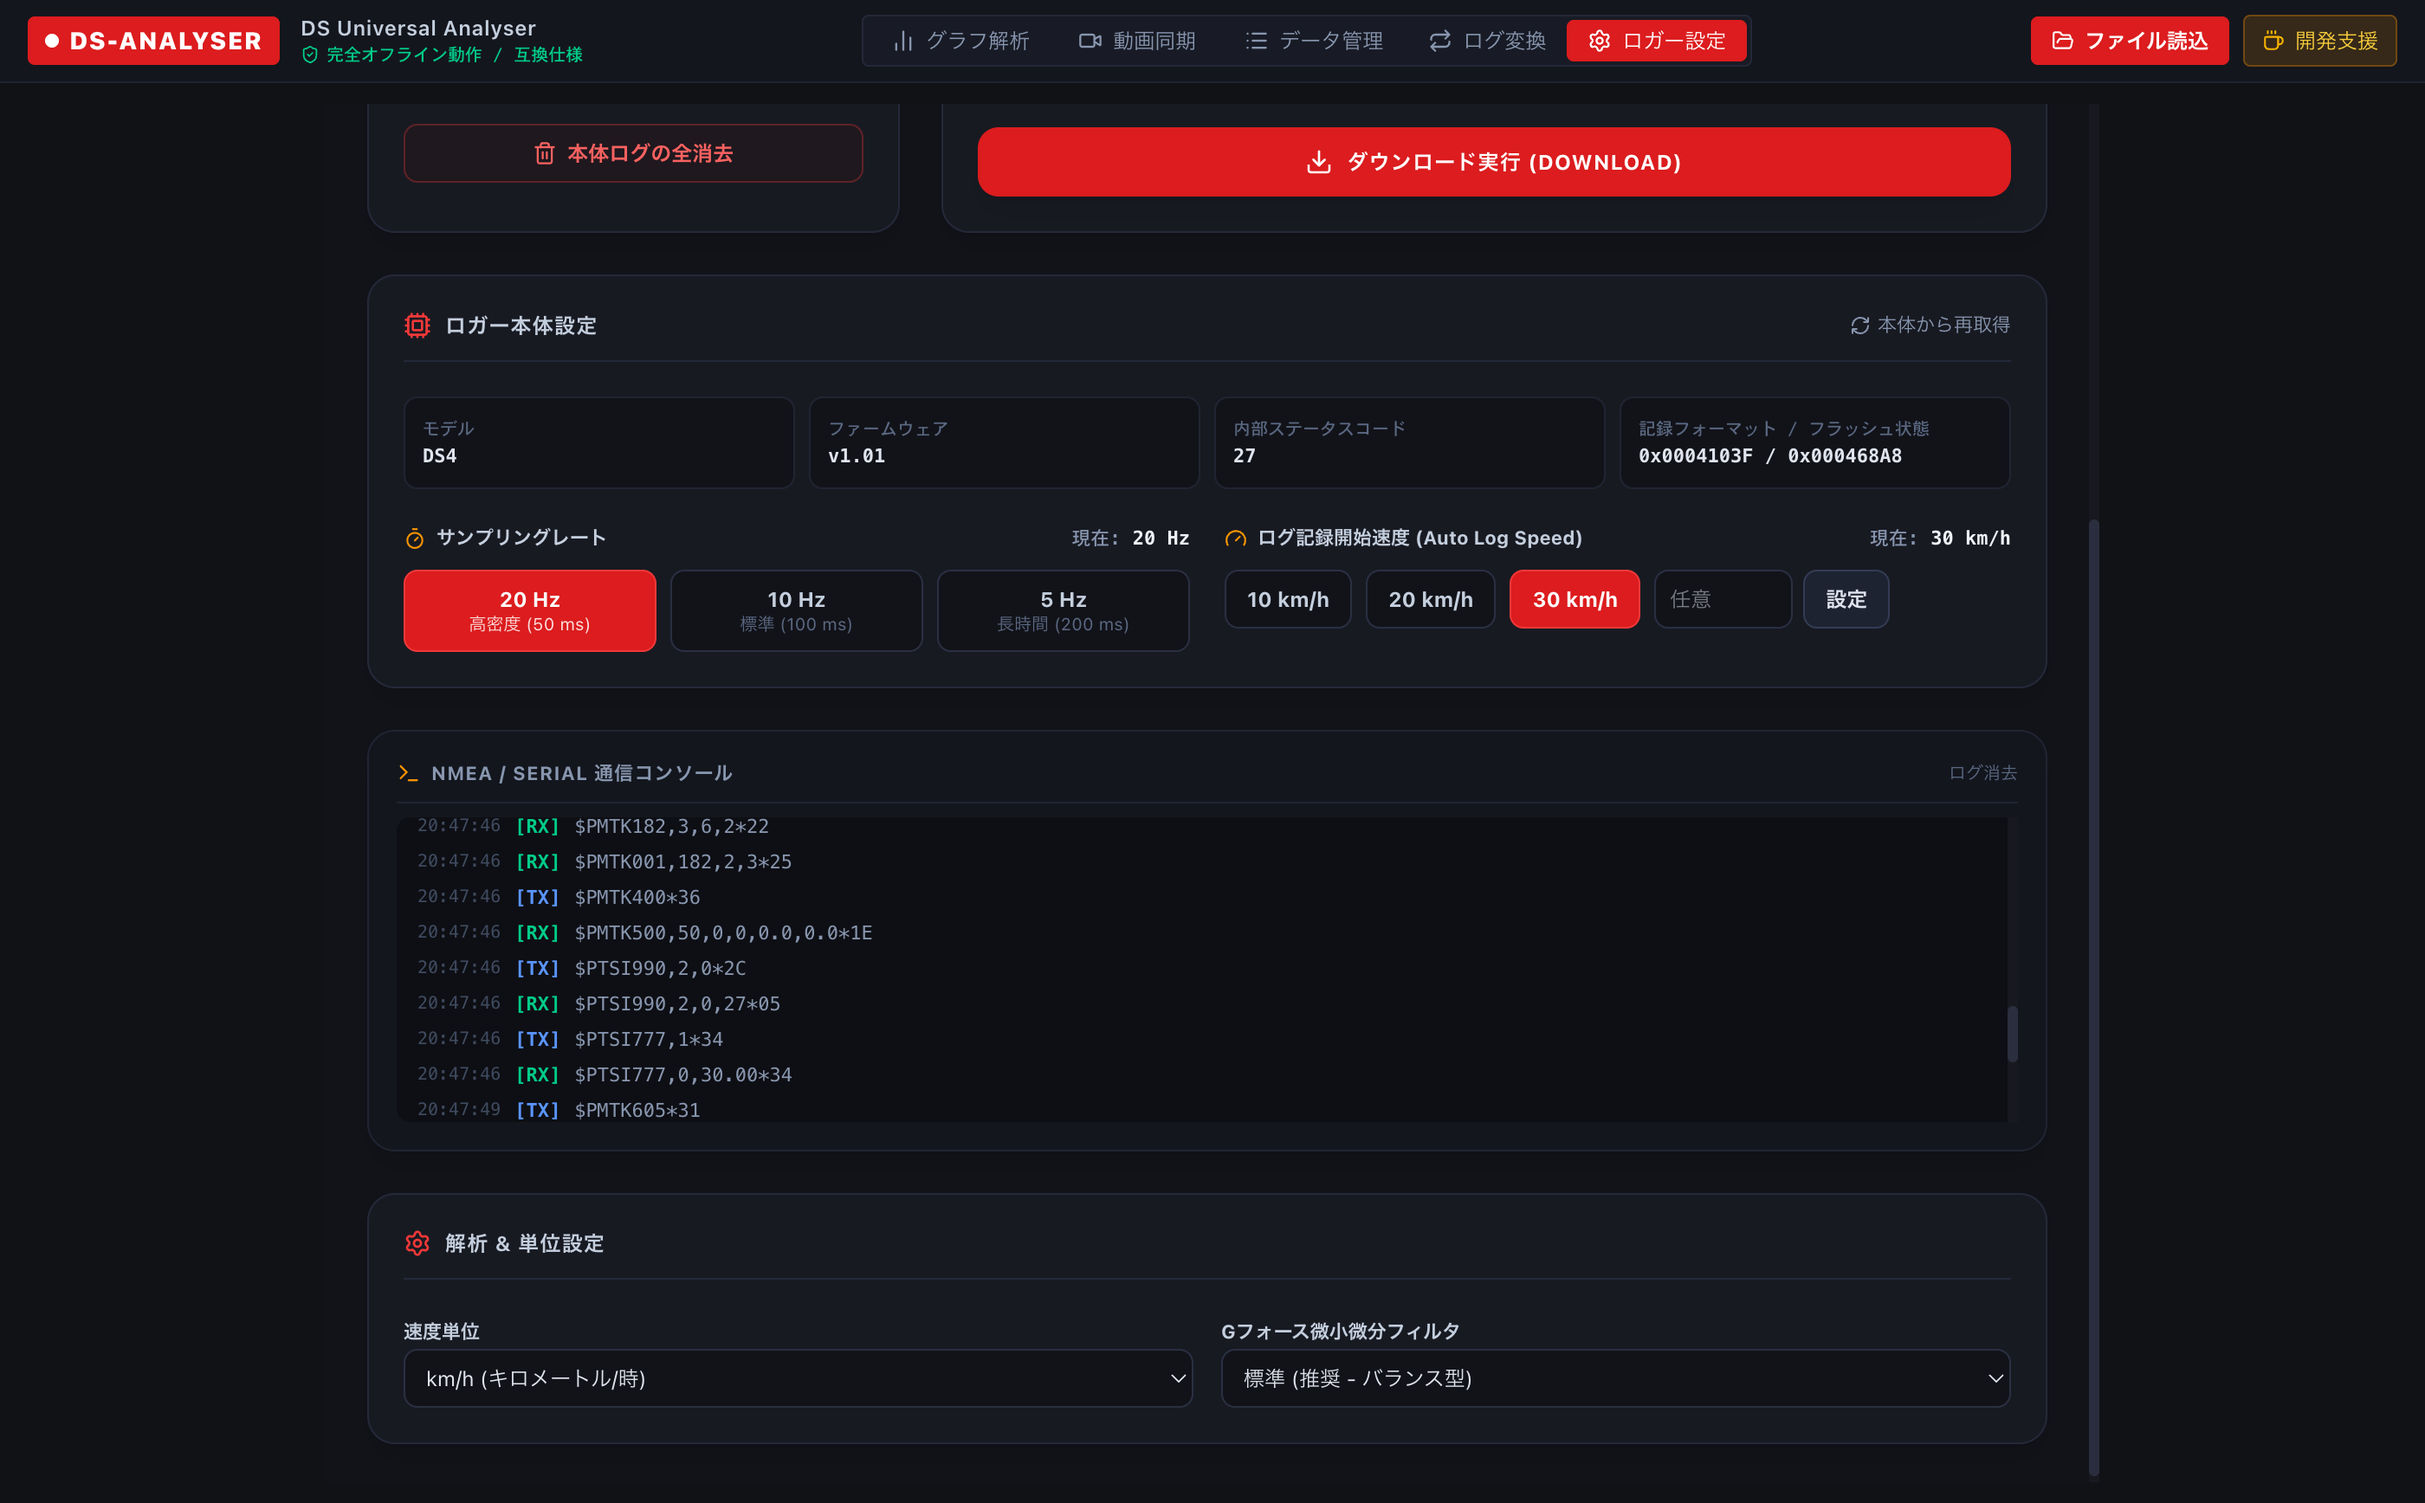
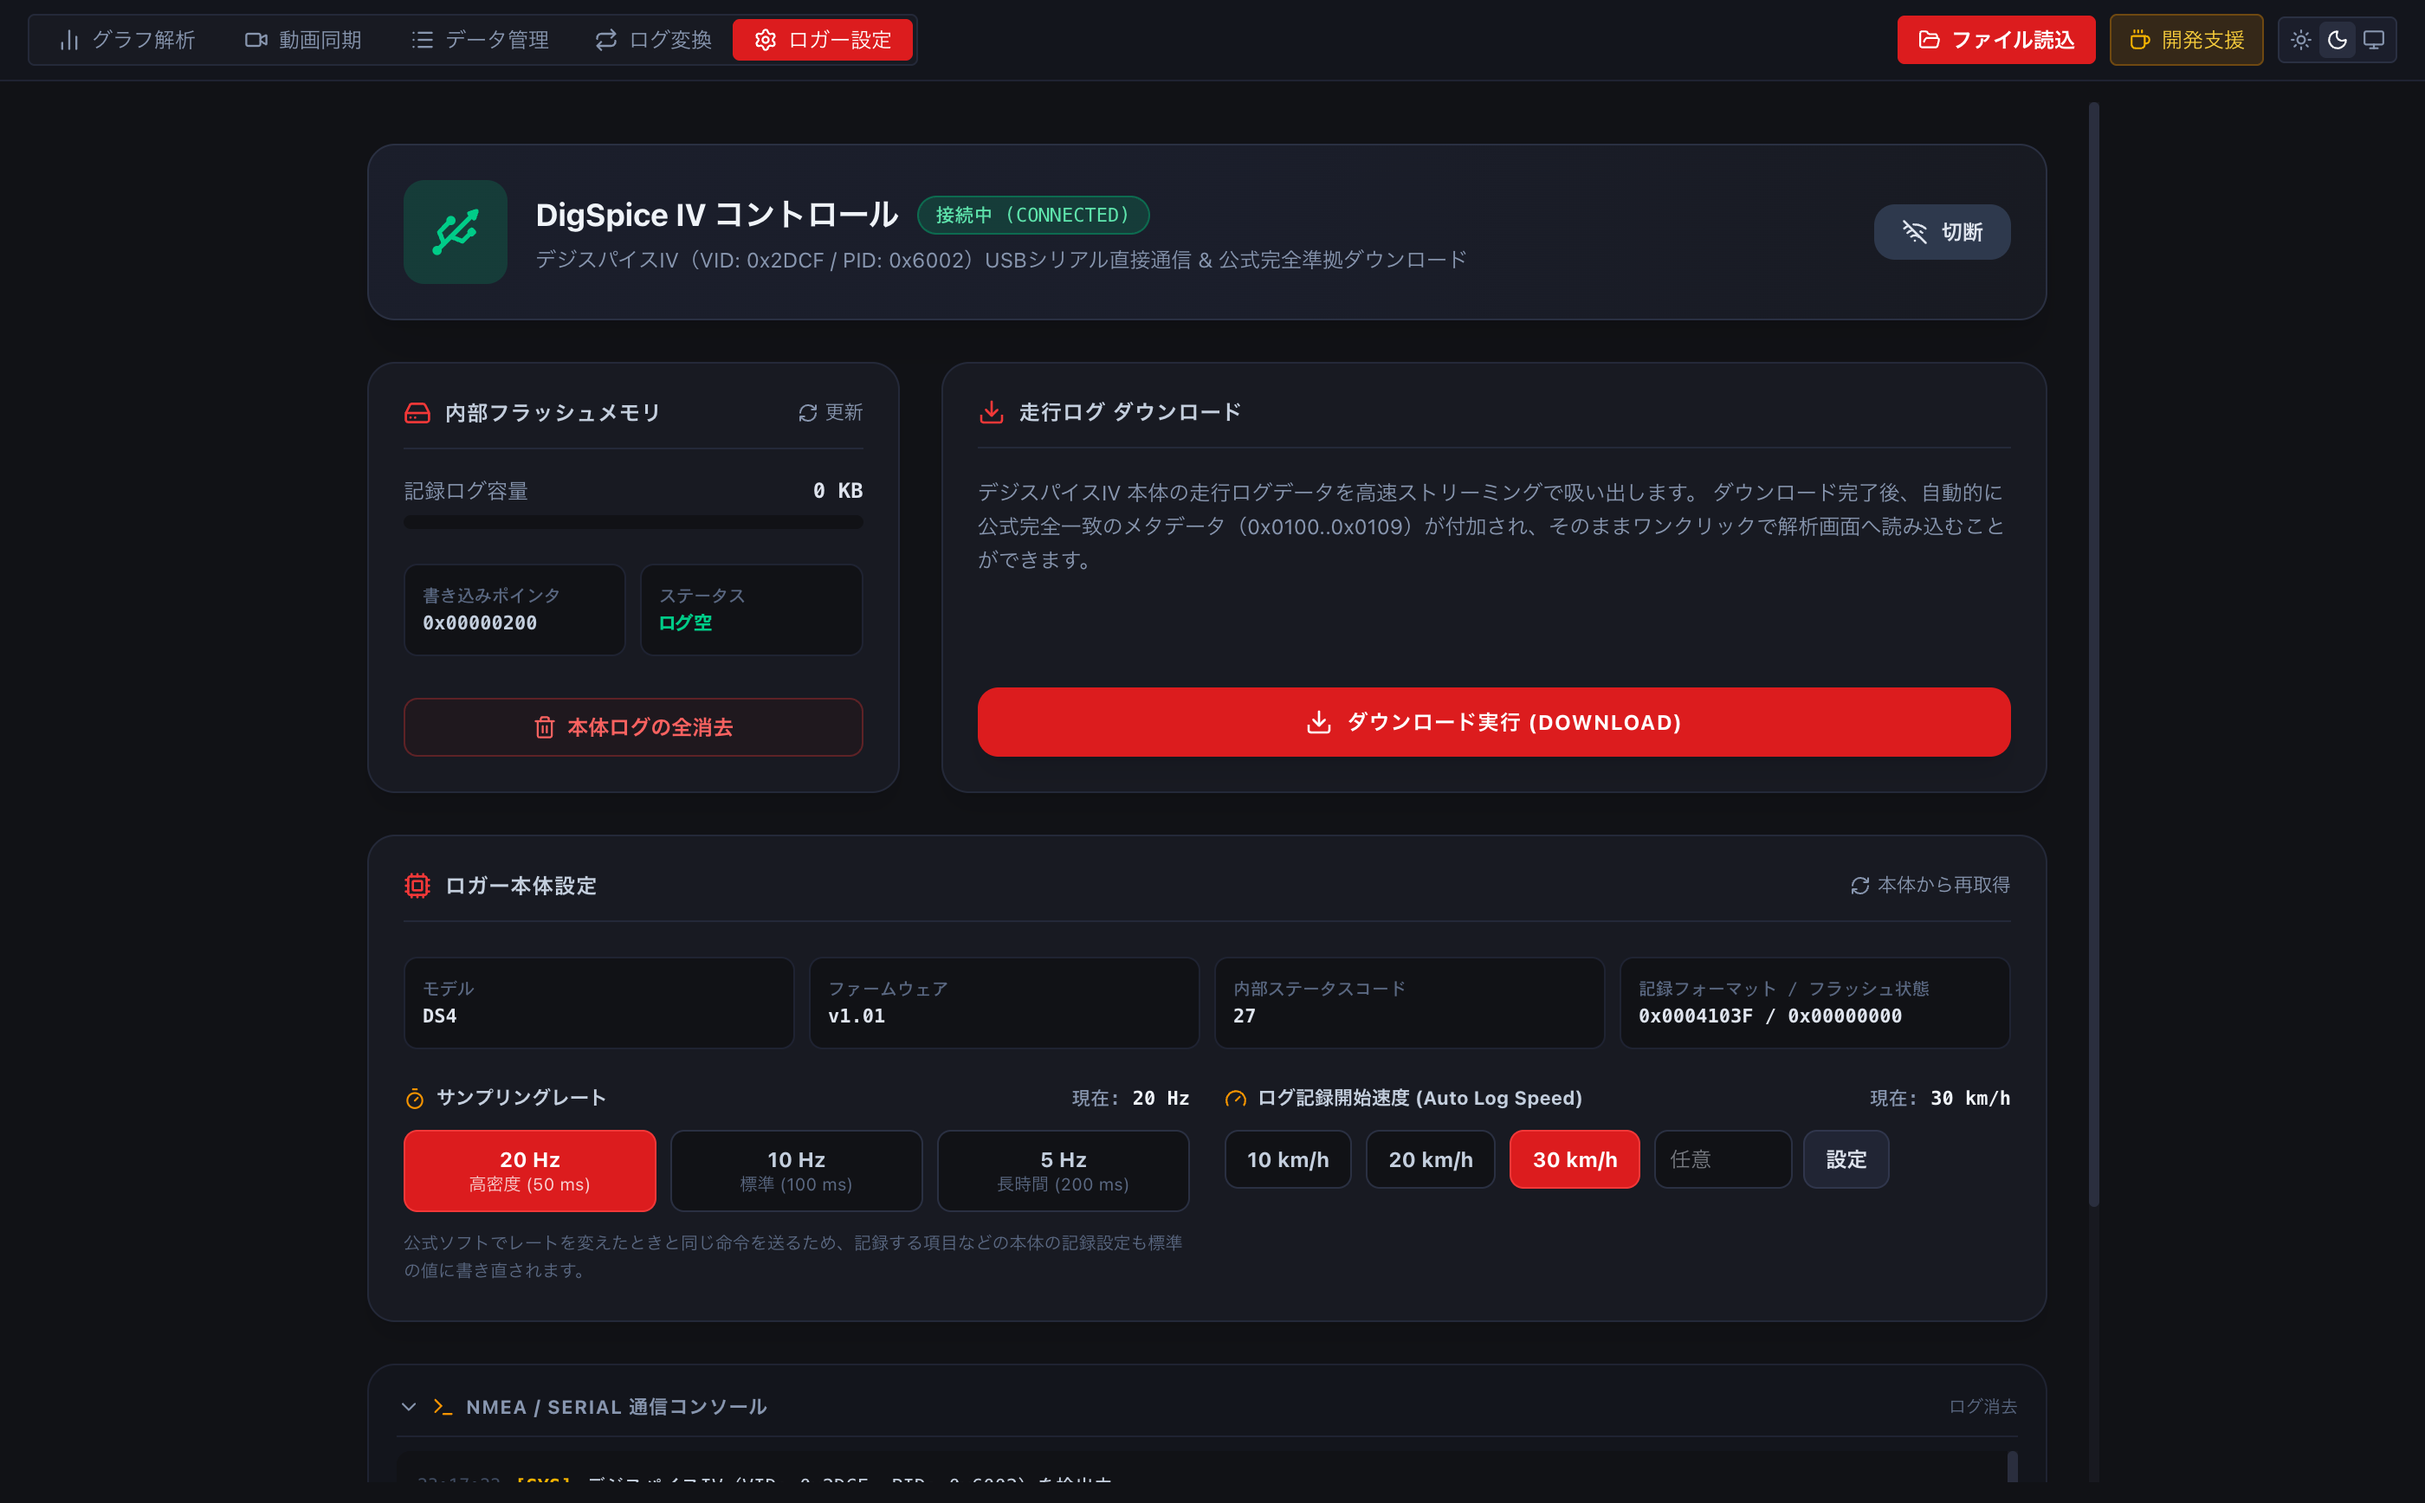
docs: README のロガー設定の画面サンプルを今の画面で撮り直す
Claude-Session: https://claude.ai/code/session_01S7qfJm9CjxuNvqoCpSwGyQ

diff --git a/README.md b/README.md
@@ -42,11 +42,9 @@
 
 ![ログ変換画面](docs/images/convert.png)
 
-**ロガー設定**: サンプリングレートとログ記録開始速度の変更、ログの吸い出し
+**ロガー設定**: ロガーを USB でつないで、サンプリングレートとログ記録開始速度の変更、ログの吸い出し
 
 ![ロガー設定画面](docs/images/logger.png)
-
-※ ロガー設定の画像は、表示テーマの切り替えなどを追加する前の画面です。
 
 ---
 
